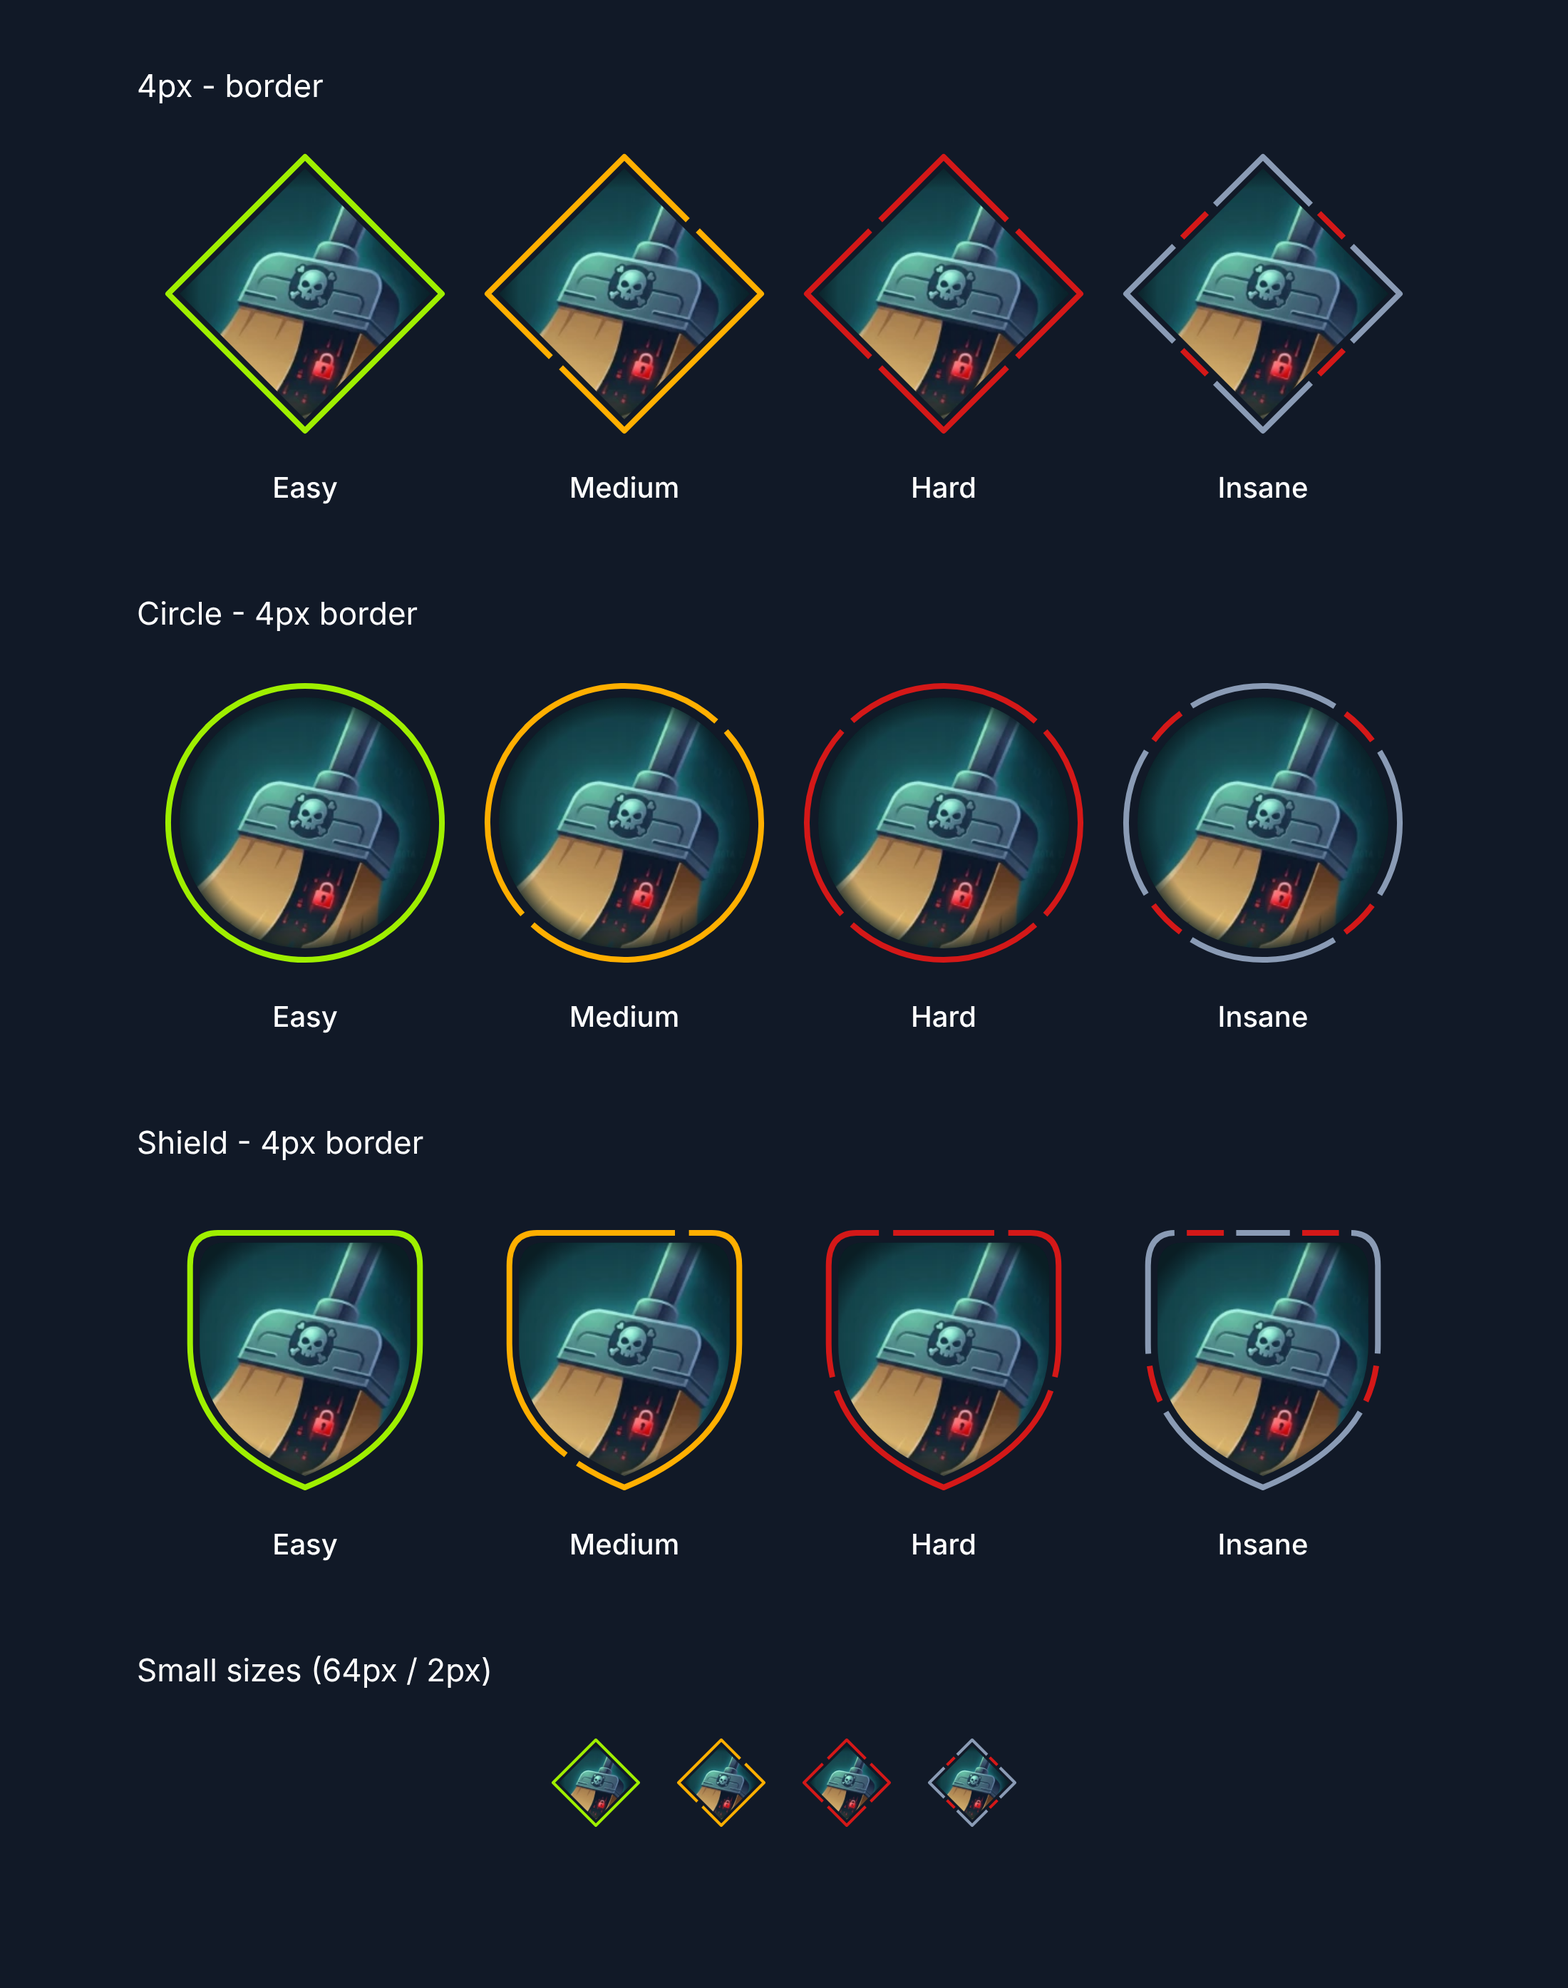
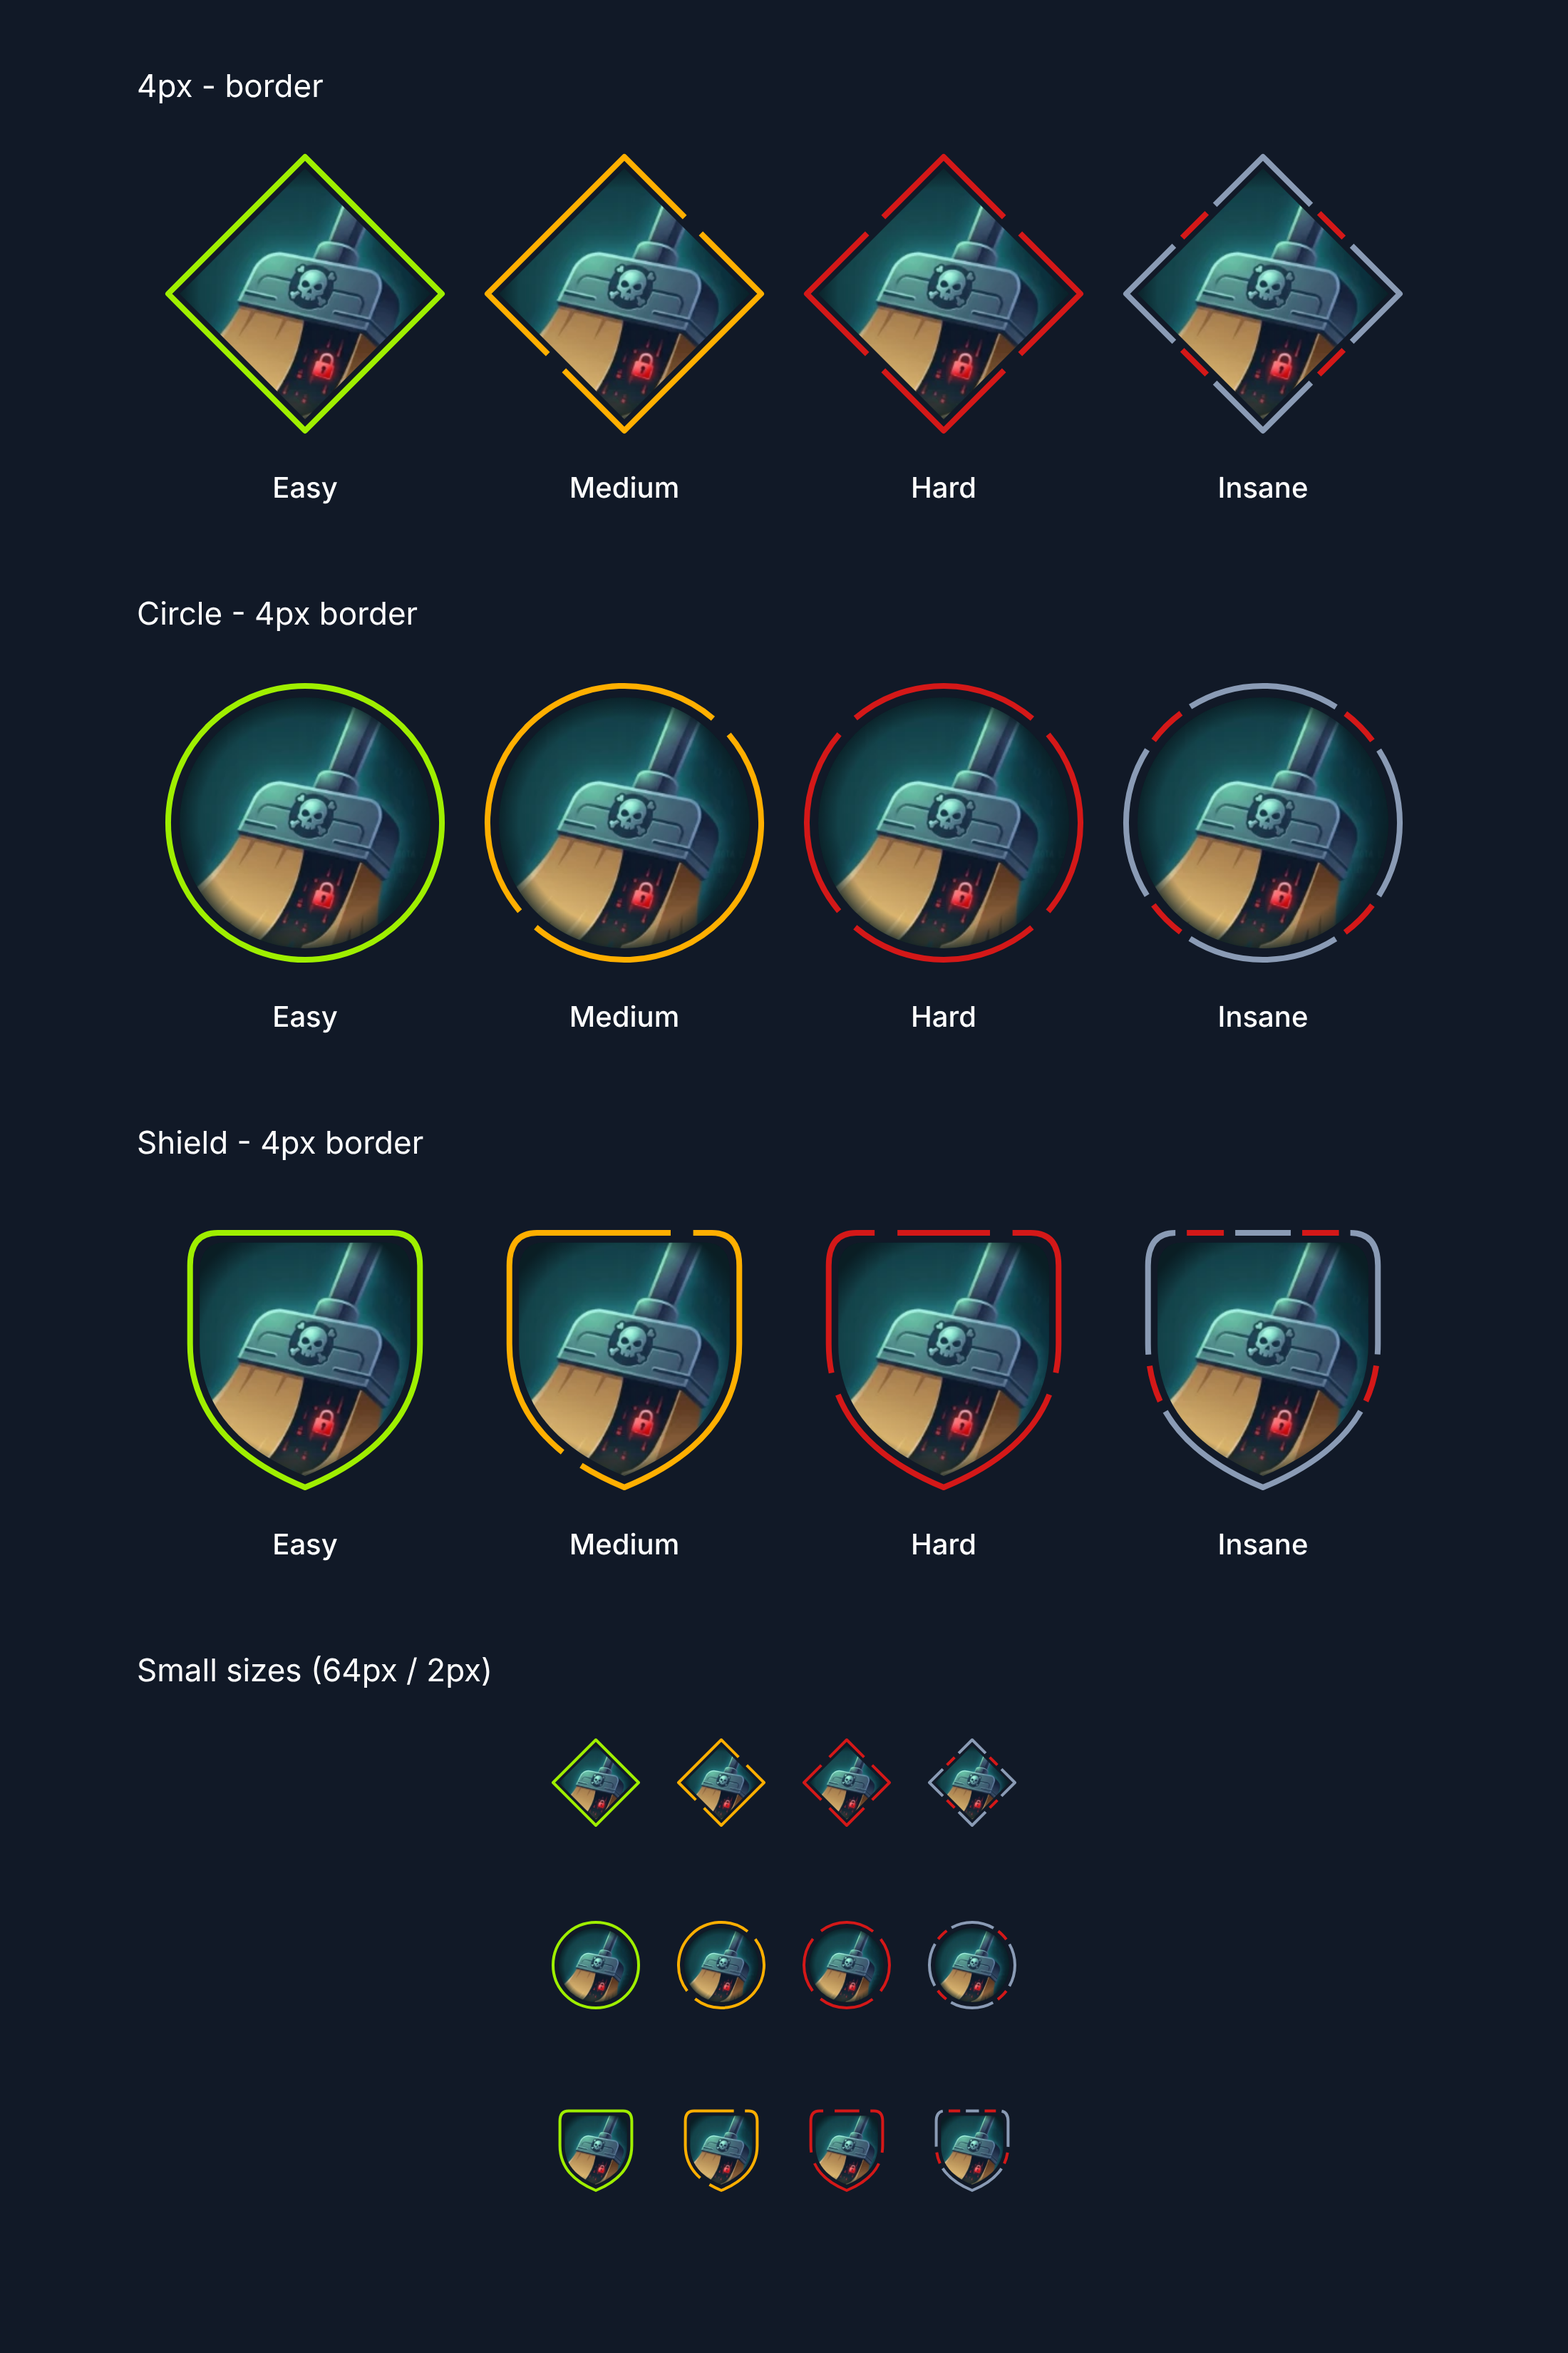
Widen difficulty frame gaps with px floors for small sizes
Claude-Session: https://claude.ai/code/session_011nxYfuYnhHf6ffMbWhu3mX

diff --git a/components/difficulty-frame/index.html b/components/difficulty-frame/index.html
@@ -35,11 +35,23 @@
     <figure><htb-difficulty-frame shape="shield" difficulty="insane" src="demo-art.png"></htb-difficulty-frame><figcaption>Insane</figcaption></figure>
   </div>
   <h2>Small sizes (64px / 2px)</h2>
-  <div class="row">
-    <htb-difficulty-frame difficulty="easy"   src="demo-art.png" size="64" stroke="2"></htb-difficulty-frame>
-    <htb-difficulty-frame difficulty="medium" src="demo-art.png" size="64" stroke="2"></htb-difficulty-frame>
-    <htb-difficulty-frame difficulty="hard"   src="demo-art.png" size="64" stroke="2"></htb-difficulty-frame>
-    <htb-difficulty-frame difficulty="insane" src="demo-art.png" size="64" stroke="2"></htb-difficulty-frame>
+<div class="row">
+    <htb-difficulty-frame shape="diamond" difficulty="easy"   src="demo-art.png" size="64" stroke="2"></htb-difficulty-frame>
+    <htb-difficulty-frame shape="diamond" difficulty="medium" src="demo-art.png" size="64" stroke="2"></htb-difficulty-frame>
+    <htb-difficulty-frame shape="diamond" difficulty="hard"   src="demo-art.png" size="64" stroke="2"></htb-difficulty-frame>
+    <htb-difficulty-frame shape="diamond" difficulty="insane" src="demo-art.png" size="64" stroke="2"></htb-difficulty-frame>
+  </div>
+<div class="row">
+    <htb-difficulty-frame shape="circle" difficulty="easy"   src="demo-art.png" size="64" stroke="2"></htb-difficulty-frame>
+    <htb-difficulty-frame shape="circle" difficulty="medium" src="demo-art.png" size="64" stroke="2"></htb-difficulty-frame>
+    <htb-difficulty-frame shape="circle" difficulty="hard"   src="demo-art.png" size="64" stroke="2"></htb-difficulty-frame>
+    <htb-difficulty-frame shape="circle" difficulty="insane" src="demo-art.png" size="64" stroke="2"></htb-difficulty-frame>
+  </div>
+<div class="row">
+    <htb-difficulty-frame shape="shield" difficulty="easy"   src="demo-art.png" size="64" stroke="2"></htb-difficulty-frame>
+    <htb-difficulty-frame shape="shield" difficulty="medium" src="demo-art.png" size="64" stroke="2"></htb-difficulty-frame>
+    <htb-difficulty-frame shape="shield" difficulty="hard"   src="demo-art.png" size="64" stroke="2"></htb-difficulty-frame>
+    <htb-difficulty-frame shape="shield" difficulty="insane" src="demo-art.png" size="64" stroke="2"></htb-difficulty-frame>
   </div>
 </body>
 </html>

diff --git a/components/difficulty-frame/difficulty-frame.js b/components/difficulty-frame/difficulty-frame.js
@@ -24,9 +24,12 @@
   };
 
   // Spacing, as a multiple of the stroke so a 2px badge keeps the same proportions as a 4px one.
-  const GAP = 2.5;             // medium / hard break
-  const INSANE_GAP = 0.075;    // share of the whole perimeter, per opening
-  const INSANE_ACCENT = 0.045; // share of the whole perimeter, per red sliver
+  // Each has a px floor so breaks stay readable on small badges.
+  const GAP = 4;               // medium / hard break (× stroke)
+  const MIN_GAP = 6;           // px
+  const INSANE_ACCENT = 0.045; // red sliver, as a share of the whole perimeter
+  const ACCENT_CLEAR = 2;      // dark space either side of the sliver (× stroke)
+  const MIN_CLEAR = 4;         // px
   const ART_INSET = 2;         // dark ring between line and art (× stroke)
 
   // Each outline is drawn in a -1..1 box and starts on its first break, so the
@@ -138,11 +141,13 @@
       const centres = bearings.map((b, i) => (i === 0 ? 0 : lengthAtBearing(line, c, b)));
 
       if (level === 'insane') {
-        applyDash(line, gapsAt(centres, total, total * INSANE_GAP));
+        const accent = total * INSANE_ACCENT;
+        const clear = Math.max(stroke * ACCENT_CLEAR, MIN_CLEAR);
+        applyDash(line, gapsAt(centres, total, accent + clear * 2));
         // Accent rides the same outline, so it sits exactly in line with the grey.
-        applyDash(this.querySelector('[data-accent]'), dashesAt(centres, total, total * INSANE_ACCENT));
+        applyDash(this.querySelector('[data-accent]'), dashesAt(centres, total, accent));
       } else {
-        applyDash(line, gapsAt(centres, total, stroke * GAP));
+        applyDash(line, gapsAt(centres, total, Math.max(stroke * GAP, MIN_GAP)));
       }
     }
   }
